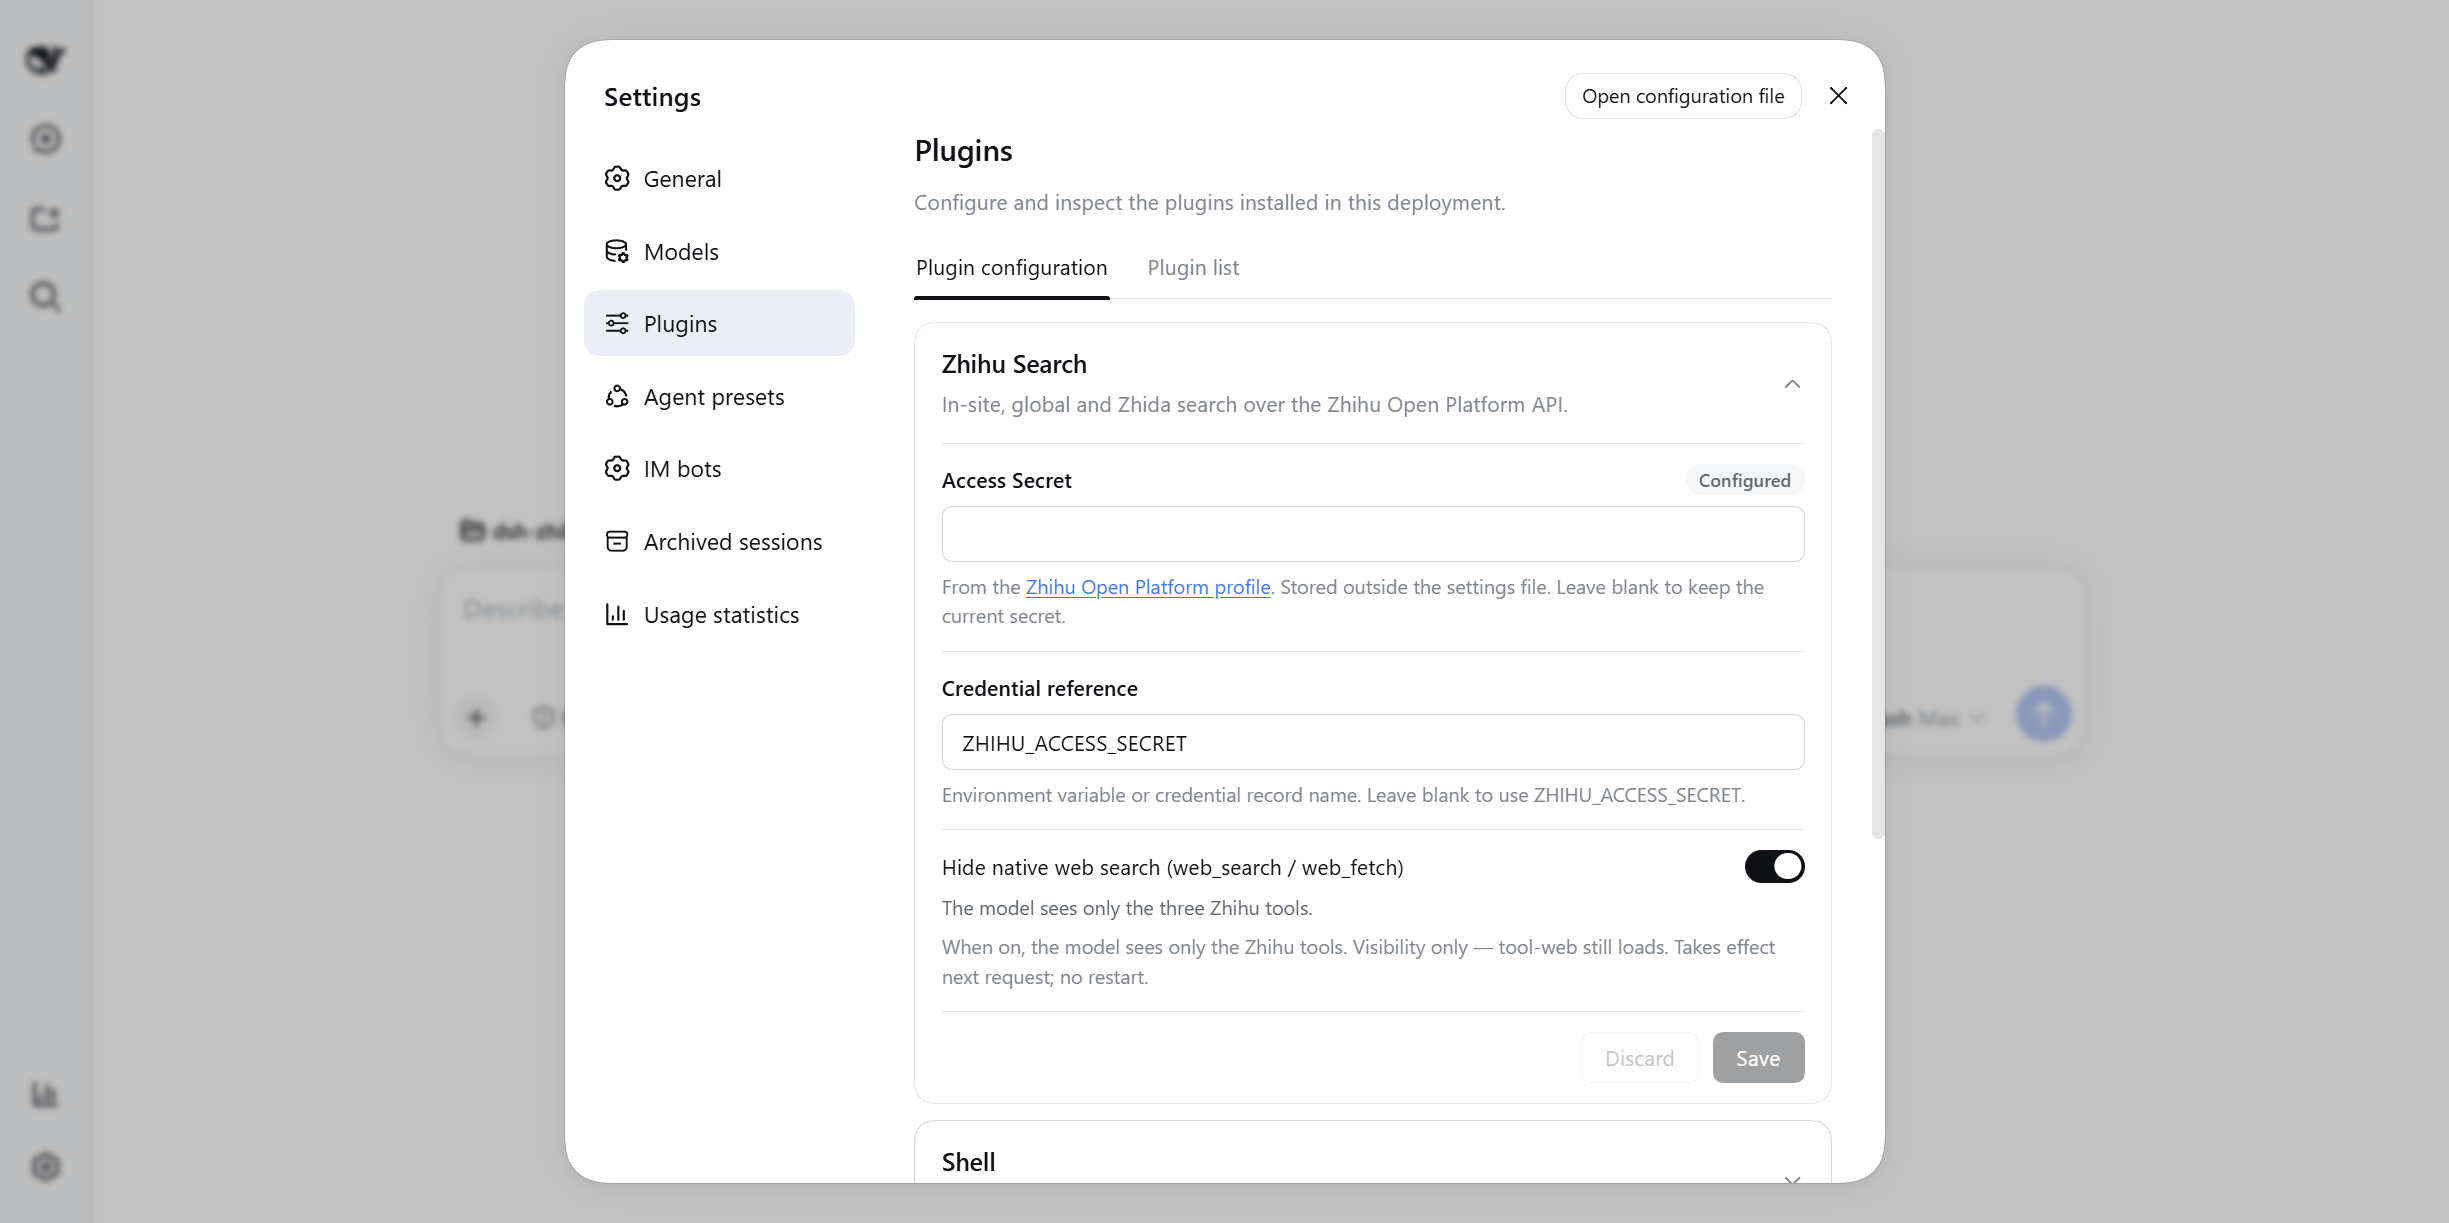
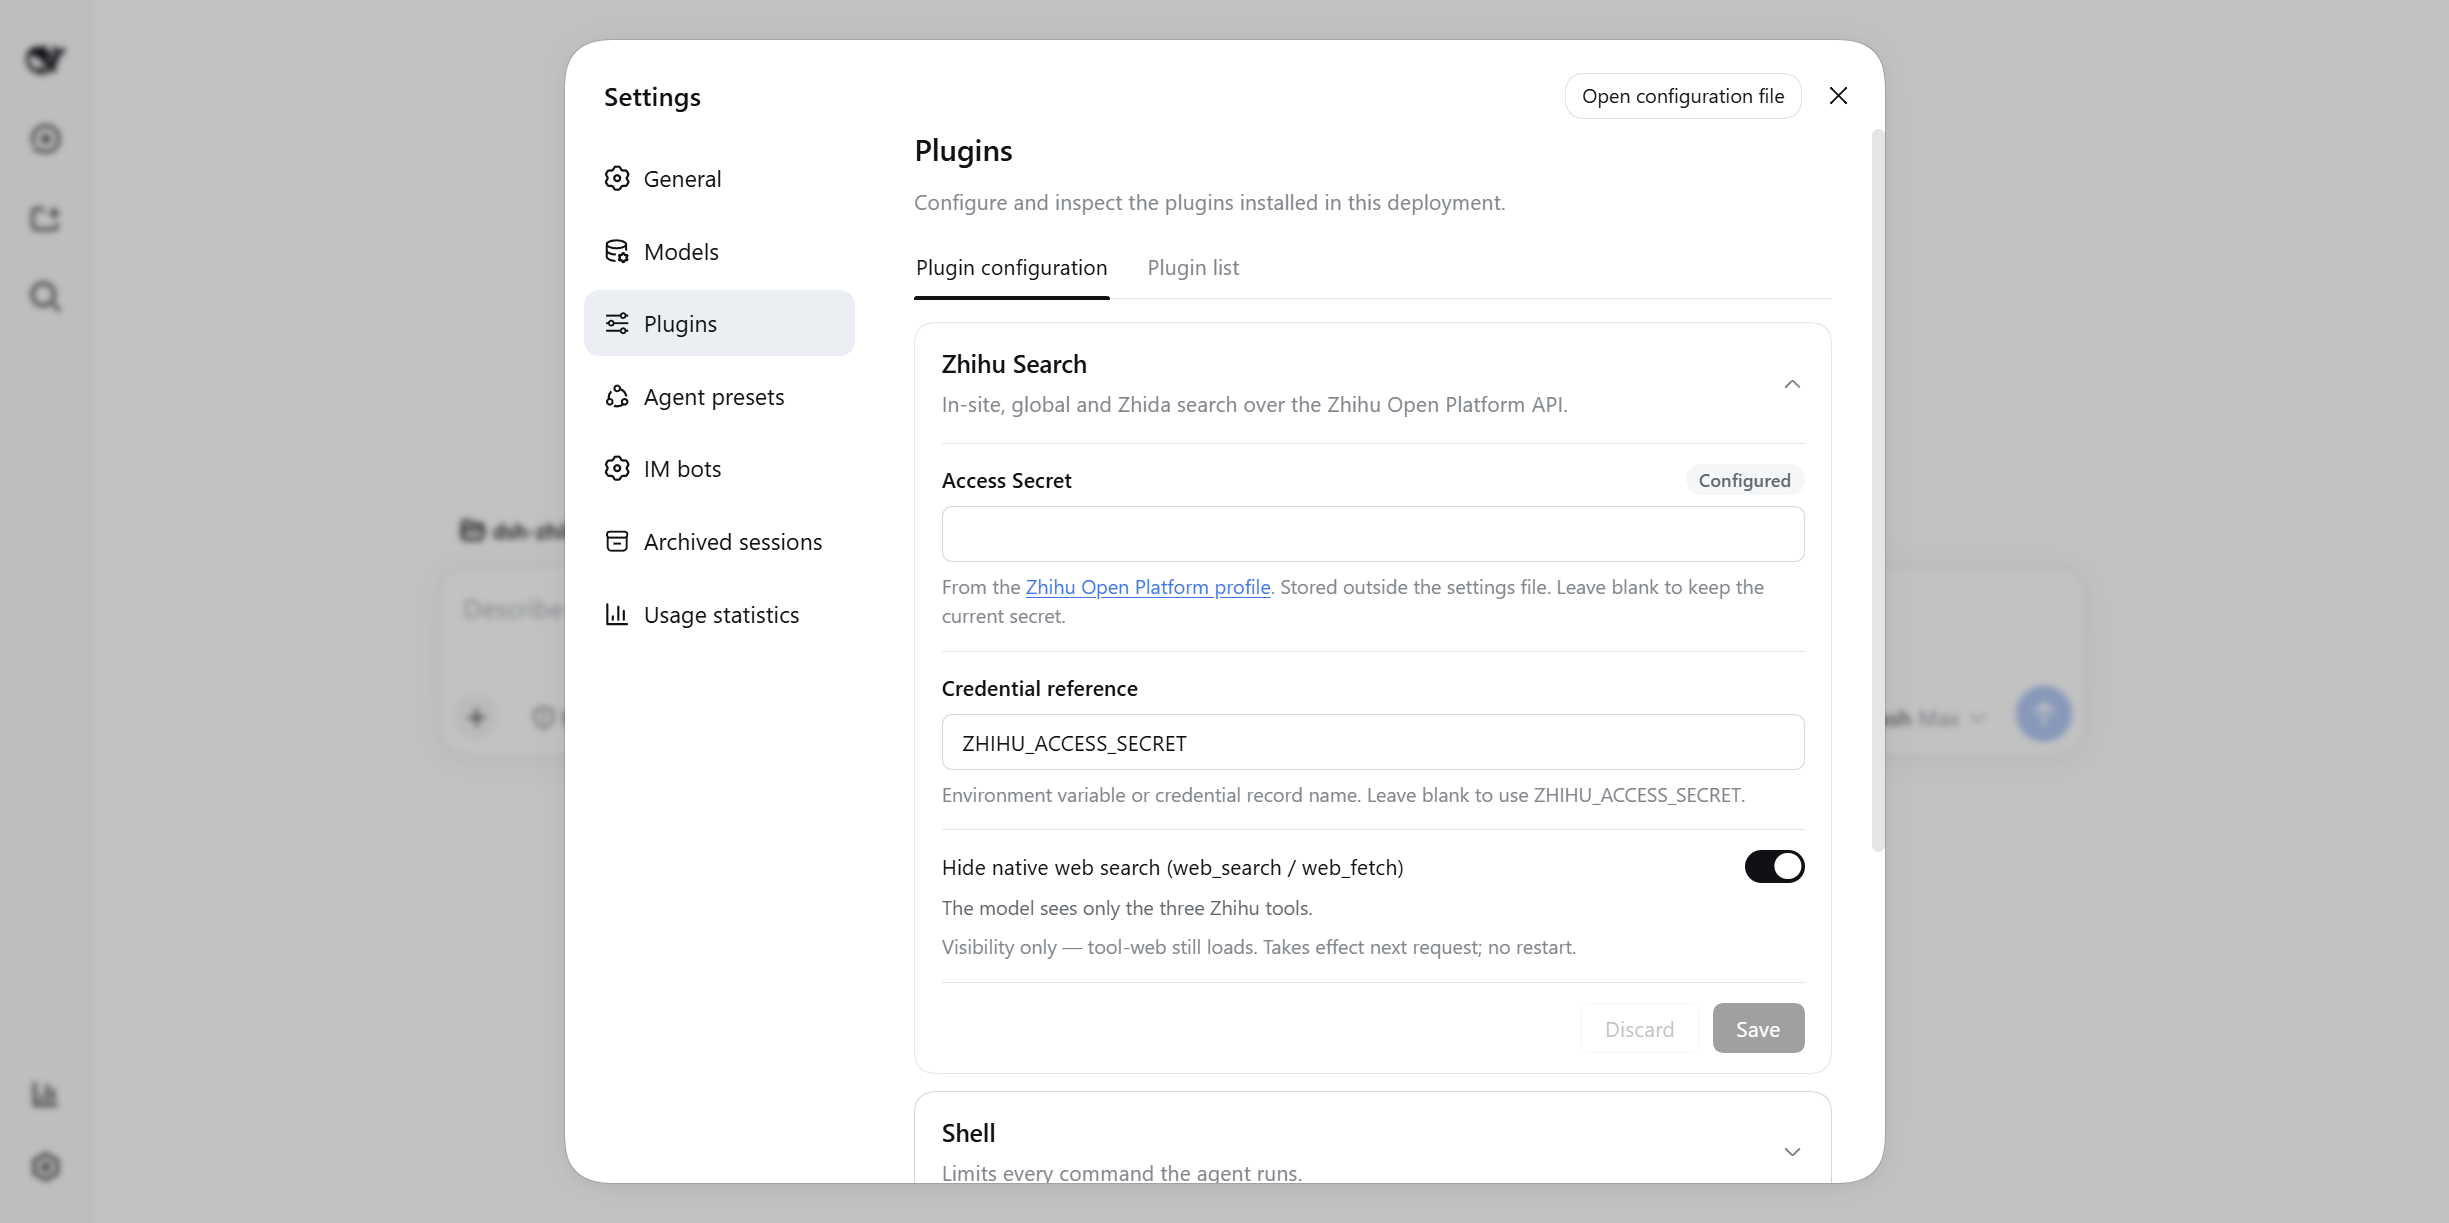
fix: 卡片开关说明去掉与状态行重复的一句（中英同改）+ 同批重截卡片图
状态行本来就随开关换文案（ON「模型只看得到知乎的三个工具。」/ OFF「原生网页搜索对模型可见。」），
说明行第一句「开启后模型仅可见知乎工具。」是同一件事说第二遍。那句限定词是上一轮为躲
「关闭时自相矛盾」加的，去重之后它连同要防的矛盾一起不需要了：

- zh: 只控可见性 —— tool-web 本身照常加载。下次请求生效，无需重启。
- en: Visibility only — tool-web still loads. Takes effect next request; no restart.

信息单元一个不少：效果（状态行独占，且随开关状态更准）、范围、时机。

改的是渲染面 → 按 assets/AGENTS.md 同批重截，不留「文案已改、图还是旧的」的窗口：

- settings-card.png（中）与 settings-card_en.png（英）：2449×1223，两张只差界面语言
- 拍摄状态：新会话背景 · 左右侧边栏收起 · 浅色主题 · 卡片展开 · 开关照现状（ON）
- 流程照新规则跑：先问（含「别动语言 / 主题 / 模型」的冻结项）→ 用自己的标签页 →
  交还（关面板、关自己的标签页、语言停在 English 原状、当前会话切回维护者原来那个）

校验：npm test 全绿（typecheck host + client + 构建 + 260 tests / 18 files）；
check-links（--fragments --refs）51 文件 418 链接 0 错误；check-line-endings 183 文件 0 不一致。

版本判定：渲染文本随 lib/client.js 进产物 → Q0 是 → Q1 否（旧用法全部仍正确）→ Q2 否
（不必改调用或配置）→ Q3 否（没有以前做不到的事）→ patch。

diff --git a/src/client/locales.ts b/src/client/locales.ts
@@ -71,7 +71,7 @@ const zh: Record<ZhihuLocaleKey, string> = {
   hideNativeWebLabel: '隐藏原生网页搜索（web_search / web_fetch）',
   hideNativeWebOn: '模型只看得到知乎的三个工具。',
   hideNativeWebOff: '原生网页搜索对模型可见。',
-  hideNativeWebHint: '开启后模型仅可见知乎工具。只控可见性 —— tool-web 本身照常加载。下次请求生效，无需重启。',
+  hideNativeWebHint: '只控可见性 —— tool-web 本身照常加载。下次请求生效，无需重启。',
   discard: '放弃',
   save: '保存',
   saving: '保存中…',
@@ -97,7 +97,7 @@ const en: Record<ZhihuLocaleKey, string> = {
   hideNativeWebLabel: 'Hide native web search (web_search / web_fetch)',
   hideNativeWebOn: 'The model sees only the three Zhihu tools.',
   hideNativeWebOff: 'Native web search stays visible to the model.',
-  hideNativeWebHint: 'When on, the model sees only the Zhihu tools. Visibility only — tool-web still loads. Takes effect next request; no restart.',
+  hideNativeWebHint: 'Visibility only — tool-web still loads. Takes effect next request; no restart.',
   discard: 'Discard',
   save: 'Save',
   saving: 'Saving…',
